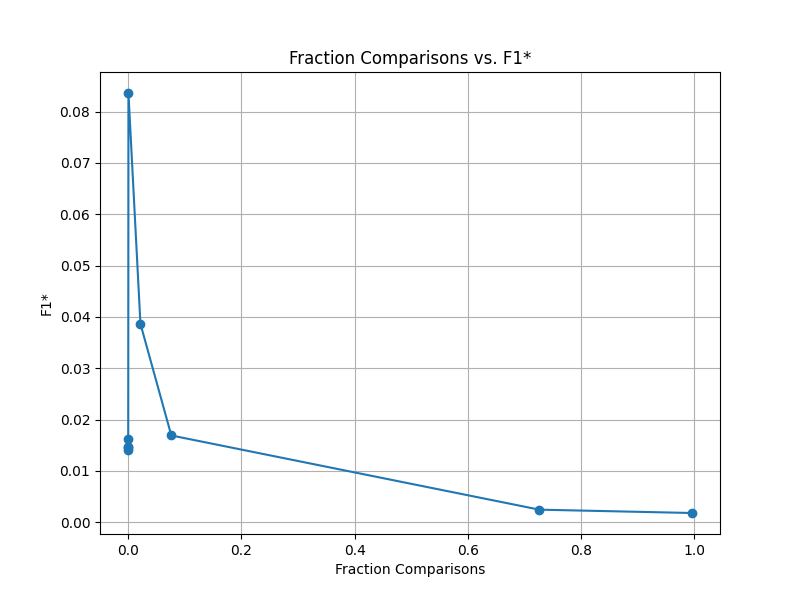
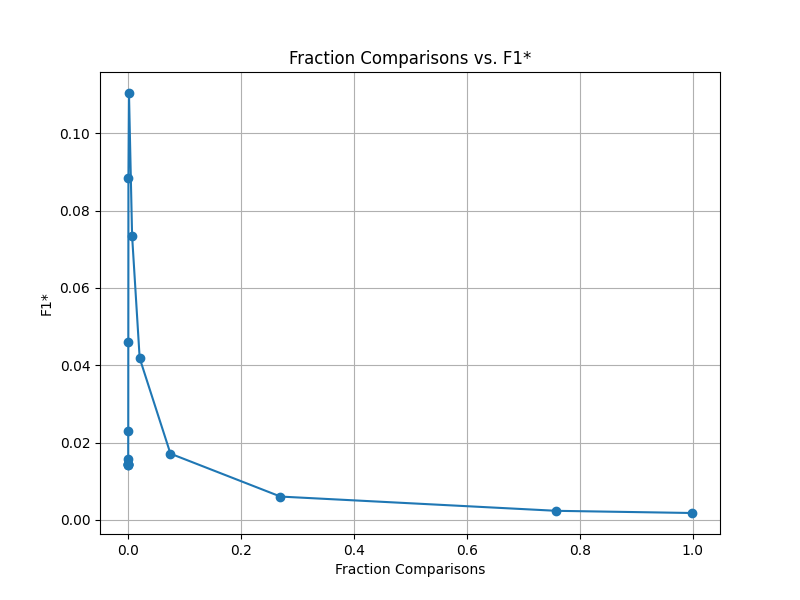
adjusted rounding amount to maixim ize number of factors in min hash matrix size

diff --git a/main.py b/main.py
@@ -192,31 +192,28 @@ def run_bootstrap(args):
     n_train = sig_matrix_train.shape[0]
     factors_train = get_factors(n_train)
     
-    b_optimise = factors_train[len(factors_train) // 2]
-    for factor in factors_train:
-        r = n_train // factor
-        threshold = (1.0 / factor) ** (1.0 / r) if r > 0 else 1.0
-        if params['threshold_min'] <= threshold <= params['threshold_max']:
-            b_optimise = factor
-            break
+    valid_factors = [f for f in factors_train 
+                     if (n_train // f) > 0 and params['threshold_min'] <= ((1.0 / f) ** (1.0 / (n_train // f))) <= params['threshold_max']]
+    
+    b_to_try = valid_factors if len(valid_factors) <= 3 else [
+        valid_factors[0], valid_factors[len(valid_factors) // 2], valid_factors[-1]
+    ]
     
     keys_train = list(train.keys())
-    candidate_pairs_train = lsh.lsh(sig_matrix_train, keys_train, b_optimise)
+    best_params, best_f1 = {}, 0
     
-    best_params = {}
-    best_f1 = 0
+    print(f"Tuning parameters across {len(b_to_try)} b values: {b_to_try}...")
     
-    print("Tuning parameters...")
-    for gamma in params['gammas']:
-        for epsilon in params['epsilons']:
-            for mu in params['mus']:
-                clustered, dissimilarity = msm.main(candidate_pairs_train, train, gamma, epsilon, mu)
-                metrics = check_duplicates(train, dissimilarity, candidate_pairs_train, clustered)
-                f1 = metrics[0]
-                
-                if f1 > best_f1:
-                    best_params = {'gamma': gamma, 'epsilon': epsilon, 'mu': mu}
-                    best_f1 = f1
+    for b in b_to_try:
+        candidate_pairs = lsh.lsh(sig_matrix_train, keys_train, b)
+        for gamma in params['gammas']:
+            for epsilon in params['epsilons']:
+                for mu in params['mus']:
+                    clustered, dissimilarity = msm.main(candidate_pairs, train, gamma, epsilon, mu)
+                    f1 = check_duplicates(train, dissimilarity, candidate_pairs, clustered)[0]
+                    if f1 > best_f1:
+                        best_params = {'gamma': gamma, 'epsilon': epsilon, 'mu': mu}
+                        best_f1 = f1
     
     print(f"Best params: {best_params}, F1: {best_f1:.4f}\n")
     
@@ -250,14 +247,7 @@ def run_bootstrap(args):
     return store_df, metrics_summary
 
 def main_func(path="TVs-all-merged.json", path_res=".", bootstraps=10, checkpoint_dir="checkpoints", 
-              gammas=None, epsilons=None, mus=None, fraction=0.5, threshold_min=0.15, threshold_max=0.4):
-    
-    if gammas is None:
-        gammas = [0.6, 0.7, 0.75, 0.8, 0.9]
-    if epsilons is None:
-        epsilons = [0.4, 0.5, 0.6]
-    if mus is None:
-        mus = [0.4, 0.5, 0.6, 0.65, 0.7, 0.8, 0.9]
+              gammas=[0.75], epsilons=[0.5], mus=[0.7], fraction=0.5, threshold_min=0.15, threshold_max=0.4):
     
     params = {
         'gammas': gammas,

diff --git a/lsh.py b/lsh.py
@@ -51,7 +51,7 @@ def min_hash(binary_vectors, fraction = 0.5):
     num_vec = len(binary_vectors)
     len_vec = len(binary_vectors.get(list(binary_vectors.keys())[0]))
     
-    n = int(round(fraction * len_vec / 100) * 100)
+    n = int(round(fraction * len_vec / 120) * 120)
     signature_m = np.full((n, num_vec), np.inf)
     
     p = 200003
